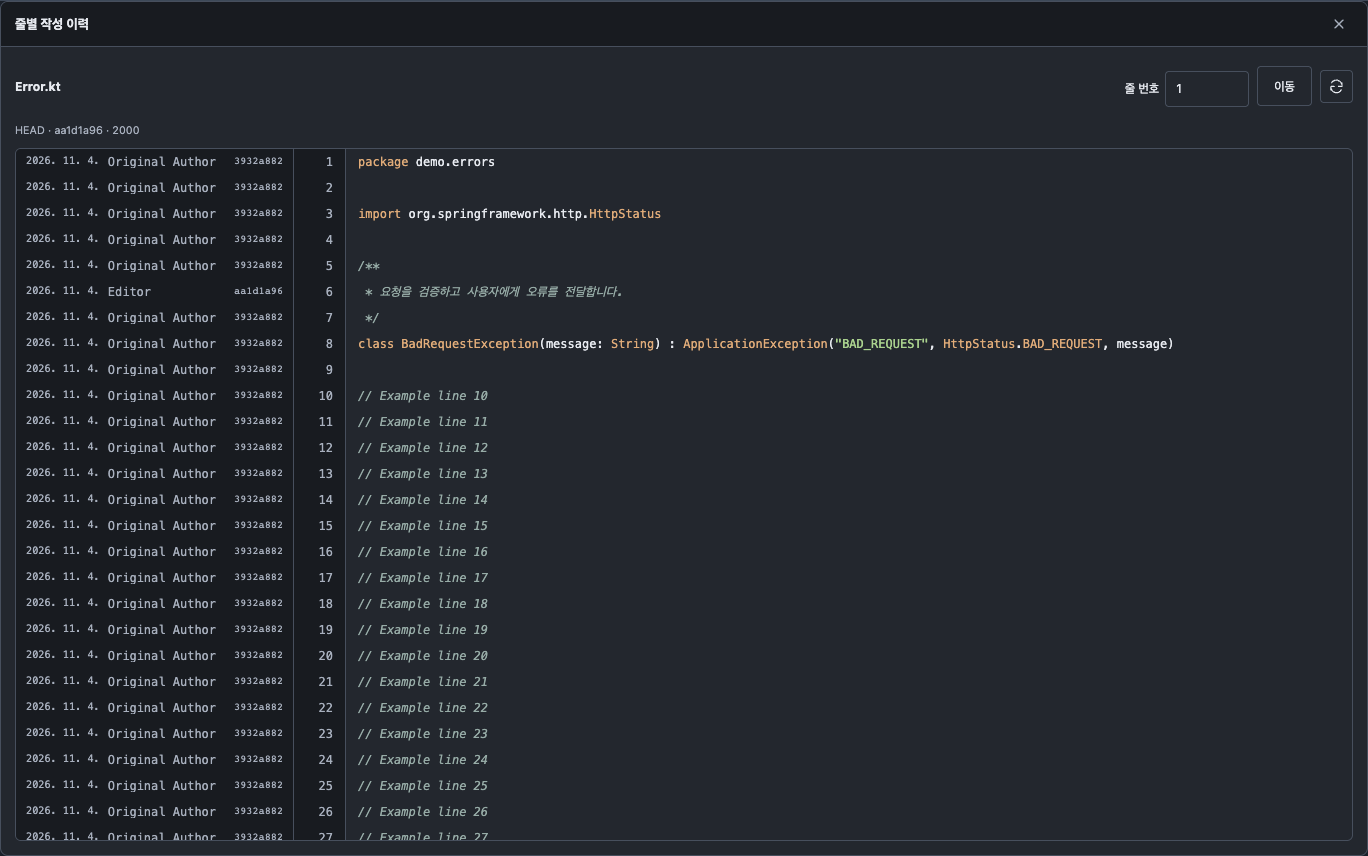
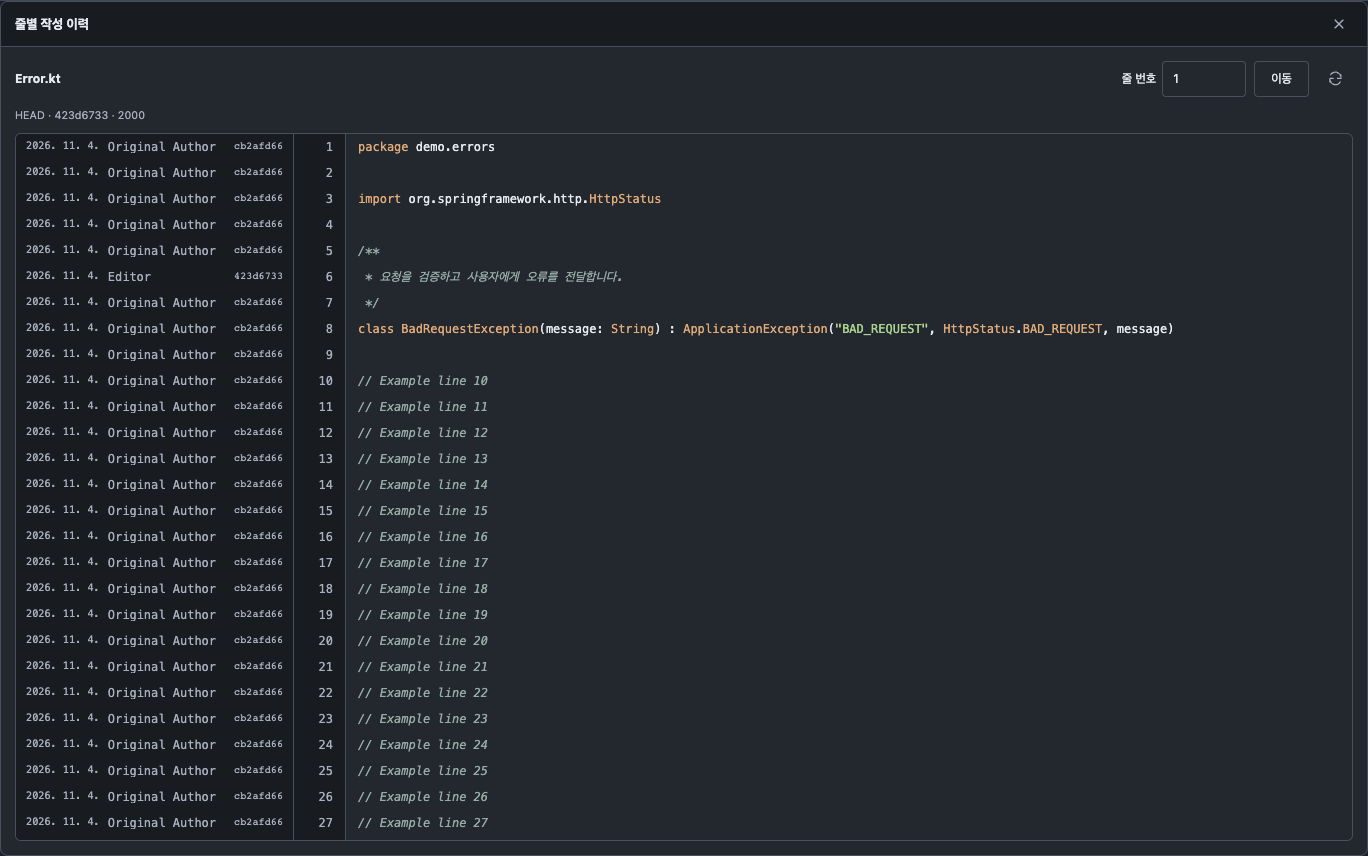
style: align blame controls and remove refresh button borders

diff --git a/public/ui-components.css b/public/ui-components.css
@@ -86,3 +86,11 @@ body dialog .blame-row>.blame-author{position:sticky;left:0;z-index:2;display:fl
 body dialog .blame-row>.blame-author:is(:hover,:focus-visible){background:var(--selected);color:var(--text)}
 .blame-viewport.idea-diff{display:block}
 .blame-canvas{flex:none}
+/* Plain refresh affordances: show feedback on interaction, not a permanent box. */
+body button.icon-control.refresh-control,body dialog button.icon-control.refresh-control{border:0;background:transparent;box-shadow:none;color:var(--muted)}
+body button.icon-control.refresh-control:hover:not(:disabled){background:var(--soft);color:var(--text)}
+body button.icon-control.refresh-control:focus-visible{outline:2px solid var(--accent);outline-offset:2px;background:var(--soft);color:var(--text)}
+body dialog.blame-dialog form.blame-toolbar{--refresh-control-size:max(36px,3em);margin:0;align-items:center}
+body dialog.blame-dialog form.blame-toolbar>label{display:flex;align-items:center;margin:0;padding:0;min-height:0;height:auto;line-height:1.5;font-size:var(--ui-font-size,12px)}
+body dialog.blame-dialog form.blame-toolbar input,body dialog.blame-dialog form.blame-toolbar>button{height:var(--refresh-control-size);min-height:var(--refresh-control-size);margin:0;box-sizing:border-box;font-size:var(--ui-font-size,12px);line-height:1.5}
+body dialog.blame-dialog form.blame-toolbar>button{display:inline-flex;align-items:center;justify-content:center}
